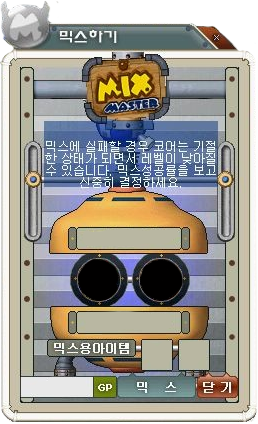
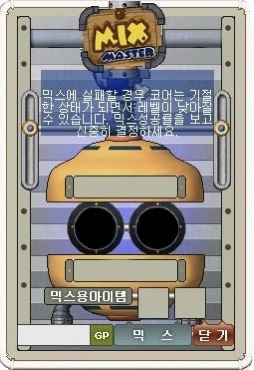
commit

diff --git a/src/css/main.css b/src/css/main.css
@@ -37,17 +37,17 @@ a{
     position: relative;
 }
 .mix-img{
-    width:85%;
+    width:97%;
     margin:40px auto;
 }
-.mix-title{
+.mix-title{    
     position: absolute;
-    left: 20%;
-    top: 35%;
+    left: 16%;
+    top: 22%;
     color: #fff;
     background-color: #c4c4c4;
-    width: 60%;
-    height: 85px;
+    width: 68.5%;
+    height: 128px;
     text-align: center;
     display: flex;
     justify-content: center;
@@ -60,12 +60,12 @@ a{
 .input-container{
     position: absolute;
     display: flex;
-    top: 53%;
-    left: 6%;
+    top: 50%;
+    left: 5.5%;
 }
 .info-container{
     position: absolute;
-    top: 75.8%;
+    top: 74.8%;
     width: 303px;
     display: flex;
     justify-content: center;
